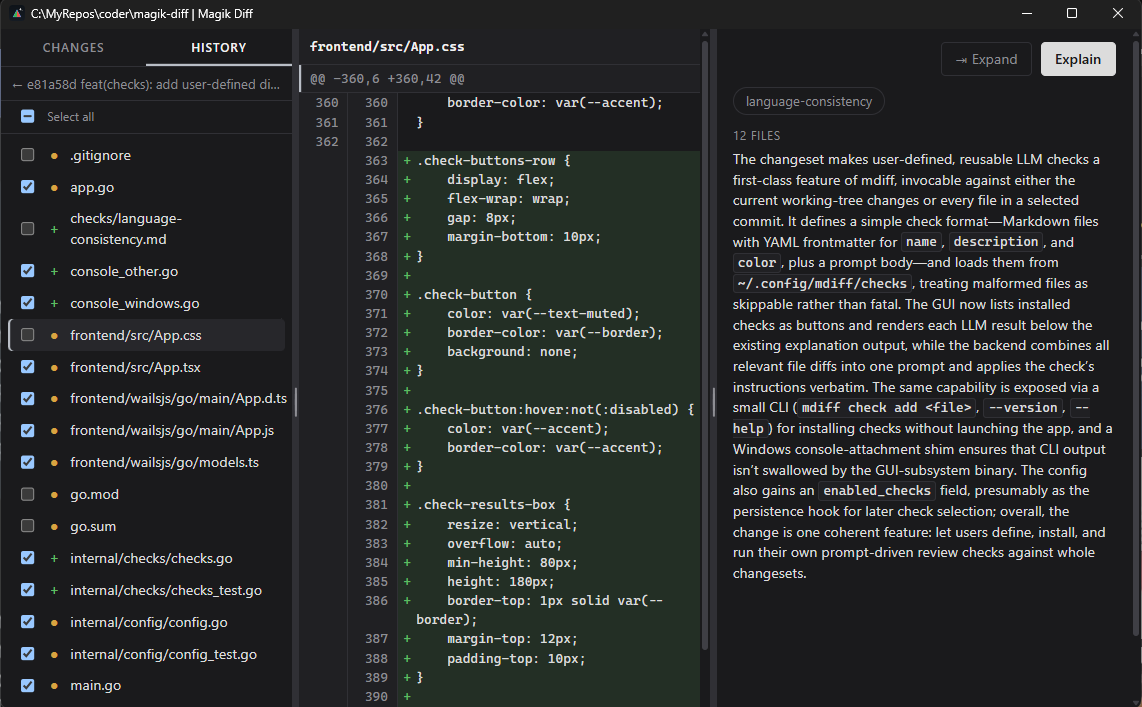
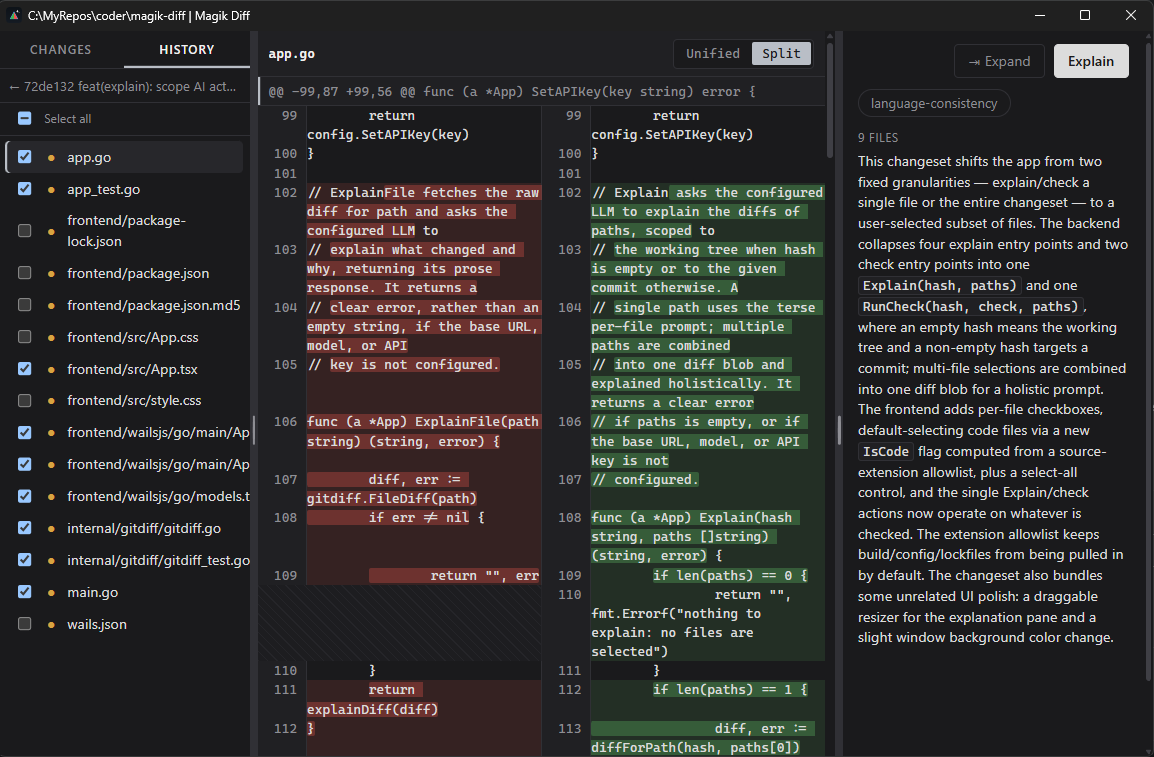
feat(diff): add split view for side-by-side change comparison
- pair removed and added lines into aligned rows instead of stacked +/- lines
- render hunks as two-column left/right view alongside unified mode
- toggle between unified and split per file, next to the file name
- persist the chosen view across file and session changes
- keep word-level highlight and gutter numbers consistent in both views

diff --git a/frontend/src/App.tsx b/frontend/src/App.tsx
@@ -19,6 +19,7 @@ import {
     VerifyLLMConfig,
 } from "../wailsjs/go/main/App";
 import {checks, config, diffparse, gitdiff} from "../wailsjs/go/models";
+import {splitRows} from "./splitRows";
 
 type RailMode = "changes" | "history";
 
@@ -112,6 +113,14 @@ function App() {
 
     const [zoom, setZoom] = useState(() => Number(localStorage.getItem("mdiff-zoom")) || 1);
 
+    const [splitView, setSplitView] = useState<boolean>(() => {
+        try {
+            return localStorage.getItem("magikdiff.splitView") === "1";
+        } catch {
+            return false;
+        }
+    });
+
     const ready = cfg.base_url !== "" && cfg.model !== "" && hasKey;
 
     useEffect(() => {
@@ -150,6 +159,14 @@ function App() {
     useEffect(() => {
         localStorage.setItem("mdiff-zoom", String(zoom));
     }, [zoom]);
+
+    useEffect(() => {
+        try {
+            localStorage.setItem("magikdiff.splitView", splitView ? "1" : "0");
+        } catch {
+            // localStorage can throw in some contexts (e.g. private browsing)
+        }
+    }, [splitView]);
 
     function checkReadiness() {
         GetConfig().then(setCfg);
@@ -422,12 +439,30 @@ function App() {
                         <p className="placeholder">Select a file to see its diff</p>
                     )}
                     {parsedDiff && parsedDiff.Path !== "" && (
-                        <div className="diff-file-header">{parsedDiff.Path}</div>
+                        <div className="diff-file-header">
+                            <span className="diff-file-path">{parsedDiff.Path}</span>
+                            {(parsedDiff.Hunks ?? []).length > 0 && (
+                                <div className="view-toggle">
+                                    <button
+                                        className={!splitView ? "active" : ""}
+                                        onClick={() => setSplitView(false)}
+                                    >
+                                        Unified
+                                    </button>
+                                    <button
+                                        className={splitView ? "active" : ""}
+                                        onClick={() => setSplitView(true)}
+                                    >
+                                        Split
+                                    </button>
+                                </div>
+                            )}
+                        </div>
                     )}
                     {parsedDiff && (parsedDiff.Hunks ?? []).length === 0 && (
                         <p className="placeholder">No textual diff to display (untracked, binary, or rename-only)</p>
                     )}
-                    {parsedDiff && (parsedDiff.Hunks ?? []).map((hunk, hi) => (
+                    {!splitView && parsedDiff && (parsedDiff.Hunks ?? []).map((hunk, hi) => (
                         <div key={hi} className="diff-hunk">
                             <div className="diff-hunk-header">{hunk.Header}</div>
                             {(hunk.Lines ?? []).map((line, li) => (
@@ -438,6 +473,43 @@ function App() {
                                         {line.Type === "added" ? "+" : line.Type === "removed" ? "-" : " "}
                                     </span>
                                     <span className="diff-content">{renderLineContent(line)}</span>
+                                </div>
+                            ))}
+                        </div>
+                    ))}
+                    {splitView && parsedDiff && (parsedDiff.Hunks ?? []).map((hunk, hi) => (
+                        <div key={hi} className="diff-hunk">
+                            <div className="diff-hunk-header">{hunk.Header}</div>
+                            {splitRows(hunk.Lines ?? []).map((row, ri) => (
+                                <div key={ri} className="split-row">
+                                    <div
+                                        className={`split-cell split-cell-left${
+                                            row.left
+                                                ? row.left.Type === "removed" ? " removed" : ""
+                                                : " split-filler"
+                                        }`}
+                                    >
+                                        {row.left && (
+                                            <>
+                                                <span className="diff-gutter">{row.left.OldNum > 0 ? row.left.OldNum : ""}</span>
+                                                <span className="diff-content">{renderLineContent(row.left)}</span>
+                                            </>
+                                        )}
+                                    </div>
+                                    <div
+                                        className={`split-cell split-cell-right${
+                                            row.right
+                                                ? row.right.Type === "added" ? " added" : ""
+                                                : " split-filler"
+                                        }`}
+                                    >
+                                        {row.right && (
+                                            <>
+                                                <span className="diff-gutter">{row.right.NewNum > 0 ? row.right.NewNum : ""}</span>
+                                                <span className="diff-content">{renderLineContent(row.right)}</span>
+                                            </>
+                                        )}
+                                    </div>
                                 </div>
                             ))}
                         </div>

diff --git a/frontend/src/App.css b/frontend/src/App.css
@@ -304,11 +304,52 @@
     position: sticky;
     top: 0;
     z-index: 1;
+    display: flex;
+    align-items: center;
+    justify-content: space-between;
+    gap: 12px;
     padding: 7px 10px;
     font-weight: 600;
     color: var(--text-strong);
     background-color: var(--surface);
     border-bottom: 1px solid var(--border);
+}
+
+.diff-file-path {
+    overflow: hidden;
+    text-overflow: ellipsis;
+    white-space: nowrap;
+    min-width: 0;
+}
+
+.view-toggle {
+    display: flex;
+    flex-shrink: 0;
+    gap: 2px;
+    padding: 2px;
+    border: 1px solid var(--border);
+    border-radius: var(--radius-sm);
+    background-color: var(--bg);
+}
+
+.view-toggle button {
+    padding: 2px 9px;
+    font-size: 12px;
+    font-weight: 400;
+    color: var(--text-muted);
+    background: none;
+    border: none;
+    border-radius: 2px;
+}
+
+.view-toggle button:hover:not(.active) {
+    color: var(--text-strong);
+    background-color: var(--surface-hover);
+}
+
+.view-toggle button.active {
+    color: var(--bg);
+    background-color: var(--accent);
 }
 
 .diff-hunk + .diff-hunk {
@@ -375,6 +416,52 @@
 .diff-line.removed .diff-hl {
     background-color: color-mix(in srgb, var(--removed) 32%, transparent);
     border-radius: 2px;
+}
+
+.split-row {
+    display: flex;
+}
+
+.split-cell {
+    flex: 1 1 0;
+    min-width: 0;
+    display: flex;
+}
+
+.split-cell-left {
+    border-right: 1px solid var(--border);
+}
+
+.split-cell.removed {
+    background-color: color-mix(in srgb, var(--removed) 13%, transparent);
+    box-shadow: inset 2px 0 0 var(--removed);
+}
+
+.split-cell.added {
+    background-color: color-mix(in srgb, var(--added) 13%, transparent);
+    box-shadow: inset 2px 0 0 var(--added);
+}
+
+.split-cell.removed .diff-hl {
+    background-color: color-mix(in srgb, var(--removed) 32%, transparent);
+    border-radius: 2px;
+}
+
+.split-cell.added .diff-hl {
+    background-color: color-mix(in srgb, var(--added) 32%, transparent);
+    border-radius: 2px;
+}
+
+.split-cell.split-filler {
+    background-color: var(--surface);
+    background-image: repeating-linear-gradient(
+        45deg,
+        var(--border) 0,
+        var(--border) 1px,
+        transparent 1px,
+        transparent 6px
+    );
+    opacity: 0.5;
 }
 
 /* Explanation pane */

diff --git a/frontend/src/splitRows.ts b/frontend/src/splitRows.ts
@@ -1,0 +1,47 @@
+import {diffparse} from "../wailsjs/go/models";
+
+export interface SplitRow {
+    left: diffparse.Line | null;
+    right: diffparse.Line | null;
+}
+
+// Mirrors the grouping rule of addIntralineHighlights in
+// internal/diffparse/diffparse.go: a maximal run of removed lines
+// immediately followed by a maximal run of added lines forms one group,
+// paired by position within the group.
+export function splitRows(lines: diffparse.Line[]): SplitRow[] {
+    const rows: SplitRow[] = [];
+    let i = 0;
+    while (i < lines.length) {
+        const line = lines[i];
+        if (line.Type === "context") {
+            rows.push({left: line, right: line});
+            i++;
+            continue;
+        }
+        if (line.Type === "removed") {
+            const rStart = i;
+            while (i < lines.length && lines[i].Type === "removed") {
+                i++;
+            }
+            const aStart = i;
+            while (i < lines.length && lines[i].Type === "added") {
+                i++;
+            }
+            const removed = lines.slice(rStart, aStart);
+            const added = lines.slice(aStart, i);
+            const count = Math.max(removed.length, added.length);
+            for (let k = 0; k < count; k++) {
+                rows.push({
+                    left: k < removed.length ? removed[k] : null,
+                    right: k < added.length ? added[k] : null,
+                });
+            }
+            continue;
+        }
+        // Added line with no preceding removed run: pure insertion.
+        rows.push({left: null, right: line});
+        i++;
+    }
+    return rows;
+}

diff --git a/main.go b/main.go
@@ -20,7 +20,7 @@ var assets embed.FS
 // version is overridden at release build time via
 // -ldflags "-X main.version=...", kept in sync with wails.json's
 // info.productVersion.
-var version = "0.1.6"
+var version = "0.2.0"
 
 func main() {
 	if len(os.Args) > 1 {

diff --git a/README.md b/README.md
@@ -1,6 +1,6 @@
 # Magik Diff
 
-![version](https://img.shields.io/badge/version-0.1.6-blue)
+![version](https://img.shields.io/badge/version-0.2.0-blue)
 
 A native git diff viewer with an LLM-powered explain-on-demand pane — for one file, all tracked changes, or a past commit. Human-in-the-loop becomes AI-powered-human-in-the-loop.
 
@@ -9,6 +9,18 @@ A native git diff viewer with an LLM-powered explain-on-demand pane — for one 
 ## Why?
 
 Diff tools show you *what* changed. Magik Diff adds a right-hand pane that explains *why* it matters, scroll-locked to the diff and generated only when you ask for it — never automatically, never per-hunk. You still review and decide, the model just gets you there faster. It's read-only: it never stages, commits, or checks out anything.
+
+## Split view
+
+Each file's diff can render as unified (`+`/`-` inline) or split (old file left, new file right, changes tinted). Toggle with the Unified/Split control next to the file name — the choice is sticky across files.
+
+## Shortcuts
+
+| Keys | Action |
+| --- | --- |
+| `Ctrl/Cmd` + `L` | Open LLM configuration |
+| `Ctrl/Cmd` + `+` / `-` | Zoom in / out |
+| `Ctrl/Cmd` + `0` | Reset zoom |
 
 ## Checks
 
